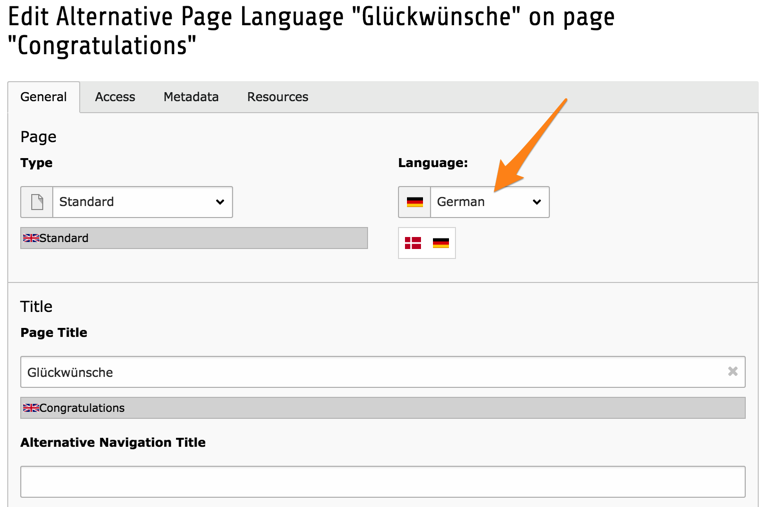
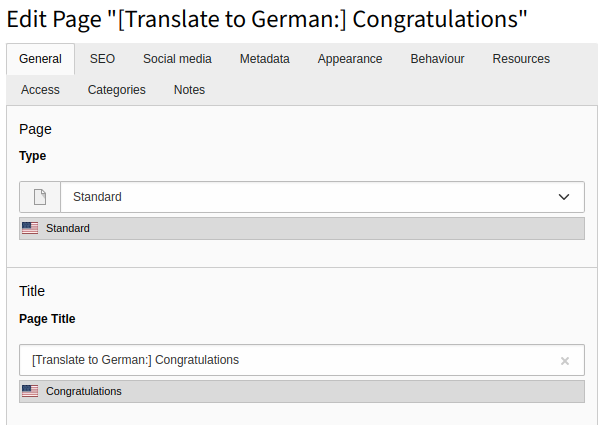
[TASK] Revise page translations chapter (#94)
Releases: main, 12.4

diff --git a/Documentation/PageTranslations/Index.rst b/Documentation/PageTranslations/Index.rst
@@ -1,24 +1,37 @@
-.. include:: /Includes.rst.txt
+..  include:: /Includes.rst.txt
 
+..  _page-translations:
 
-.. _page-translations:
-
+=================
 Translating pages
-^^^^^^^^^^^^^^^^^
+=================
 
-When you want a translation of a page in the page tree you create an
-"Alternative Page Language" record on that page. This contains fields
-similar to that of the page record which you fill in with translated
-content:
+When you want to translate a page in the page tree you create an
+"alternative page language" record on that page. This contains fields
+similar to that of the page record of the default language which you fill in
+with translated content.
 
-.. figure:: /Images/ManualScreenshots/Record/AlternativePageLanguage.png
-   :alt: Defining an alternative page language
+Select the :guilabel:`Language Comparison` function in the upper menu bar of the
+:guilabel:`Web > Page` module. Then use the select box to create a new
+translation of the page:
 
-   Editing form for an alternative page language
+..  figure:: /Images/ManualScreenshots/Record/CreateNewTranslationOfPage.png
+    :alt: Create a new translation of the page
+    :class: with-shadow
 
-Obviously, the most important field is the "Language" field. Most
-of the fields are the same as for pages.
+    Create a new translation of the page
 
-If a page has no translation (i.e. no "Alternative Page Language" record),
+The form with the fields for the translated page will then be displayed:
+
+..  figure:: /Images/ManualScreenshots/Record/AlternativePageLanguage.png
+    :alt: Editing the page fields for an alternative page language
+    :class: with-shadow
+
+    Editing the page fields for an alternative page language
+
+Most of the fields are the same as for the page of the default language. Below
+the fields the content of the default language is shown.
+
+If a page has no translation (that means, no "alternative page language" record),
 its content cannot be translated, no matter how many system languages
 have been defined.
